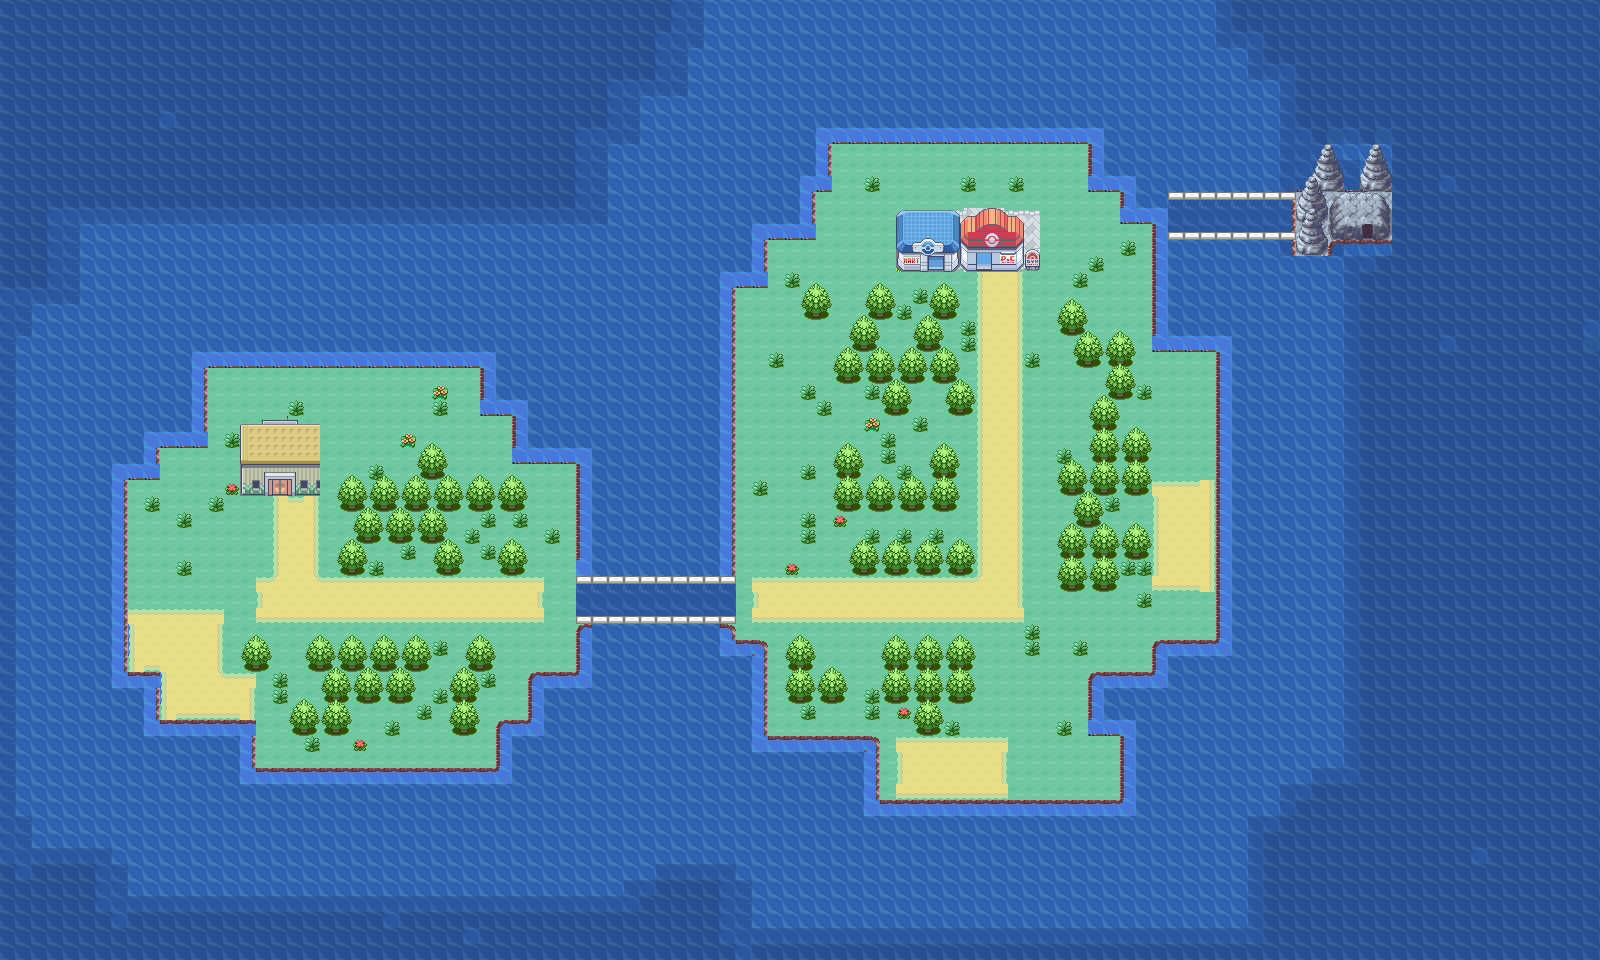
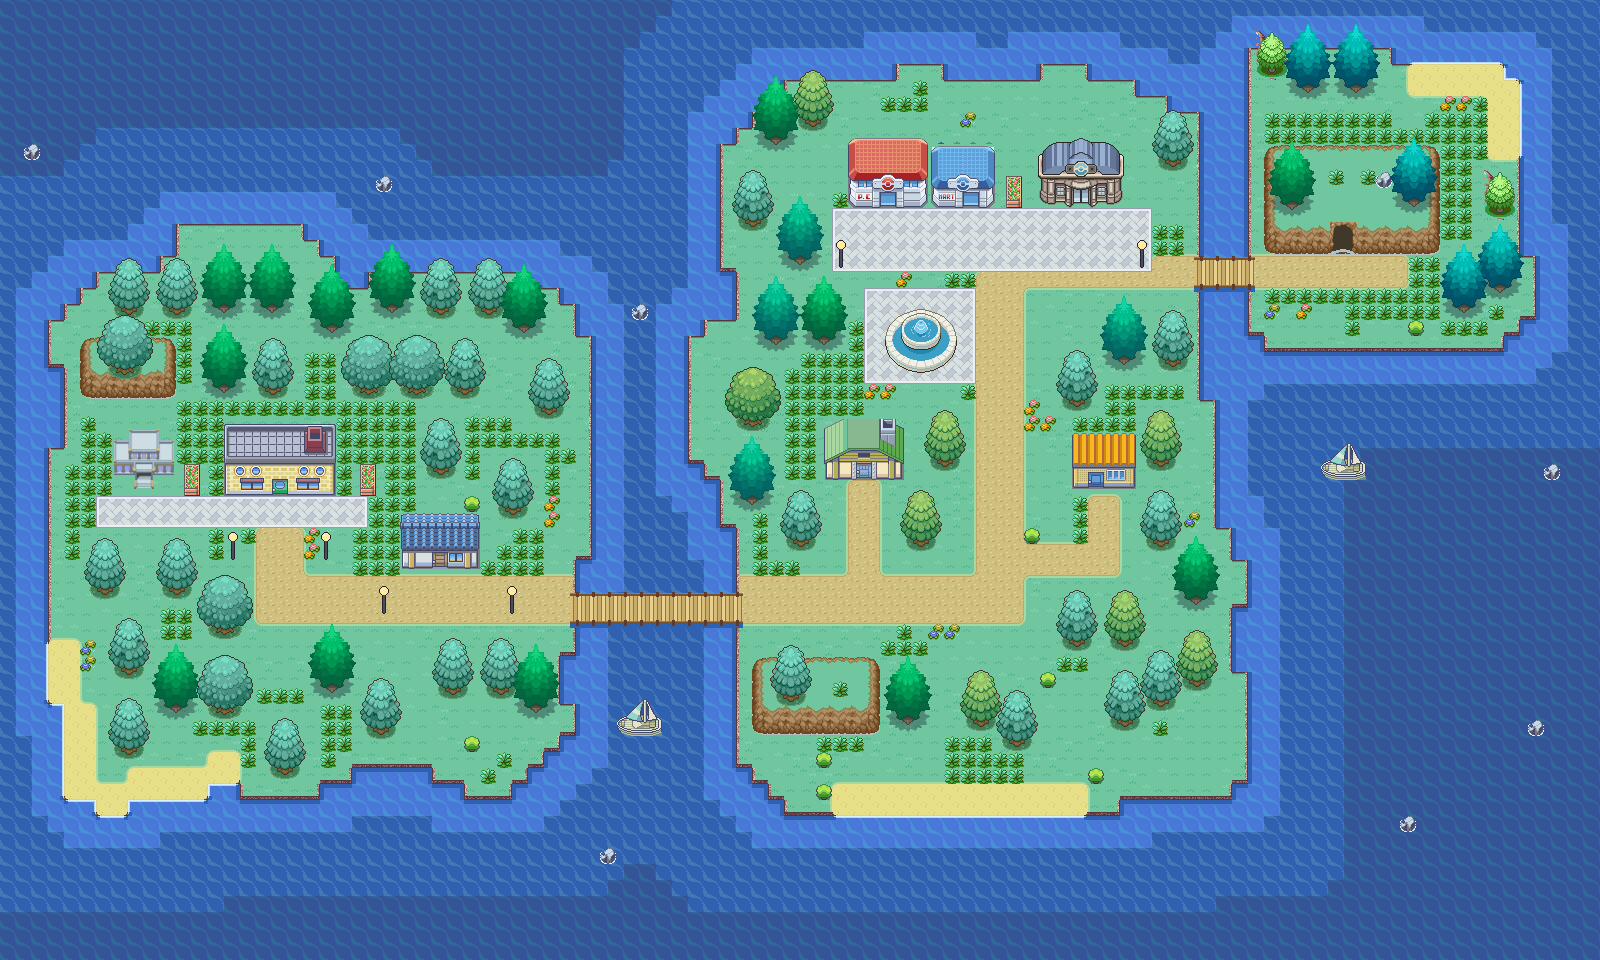
change(fusion): Redraw the Fusion region Helixia with the new map renderer
Helixia gets the modern island style of the Festival Archipelago: Bill's Fusion
lab with a research station, Helix City with Pokémon Center, Mart and a domed
gym, a fountain square, the boardwalk of Fusion path 2 and the Mysterious Cave
in a rock plateau on its own islet. Every building is connected by a path.
The clickable areas of the Fusion map follow the new layout.

Claude-Session: https://claude.ai/code/session_01Srdu71KdXcWs2nS9inXx9y

diff --git a/src/scripts/fusion/FusionData.ts b/src/scripts/fusion/FusionData.ts
@@ -82,7 +82,7 @@ class FusionData {
         },
         {
             id: 'f1', name: 'Fusionspfad 1', kind: 'route', unlock: {}, levels: [3, 8], hp: 30, energy: 1, background: 'forest',
-            map: { x: 16, y: 36, w: 18, h: 3 },
+            map: { x: 16, y: 36, w: 20, h: 3 },
             pokemon: ['25.133', '133.25', '132.25', '52.133', '54.79', '36.40'],
         },
         {
@@ -92,17 +92,17 @@ class FusionData {
         },
         {
             id: 'f3', name: 'Fusionspfad 3', kind: 'route', unlock: { area: 'f2', kills: 25 }, levels: [20, 30], hp: 1100, energy: 8, background: 'fire',
-            map: { x: 47, y: 36, w: 14, h: 3 },
+            map: { x: 48, y: 36, w: 13, h: 3 },
             pokemon: ['59.38', '38.59', '3.143', '143.3', '9.130', '130.9', '25.6', '6.25'],
         },
         {
             id: 'f4', name: 'Fusionspfad 4', kind: 'route', unlock: { area: 'f3', kills: 25 }, levels: [35, 45], hp: 4500, energy: 20, background: 'desert',
-            map: { x: 61, y: 17, w: 3, h: 22 },
+            map: { x: 61, y: 17, w: 3, h: 19 },
             pokemon: ['131.148', '148.131', '94.6', '142.6', '65.94', '143.149', '149.143', '6.149', '149.6'],
         },
         {
             id: 't2', name: 'Helixstadt', kind: 'town', unlock: { area: 'f4', kills: 25 }, background: 'battlefield', gym: 'gym1',
-            map: { x: 56, y: 13, w: 9, h: 4 },
+            map: { x: 55, y: 13, w: 13, h: 4 },
         },
         {
             id: 'gym1', name: 'Fusionsarena', kind: 'gym', unlock: { area: 'f4', kills: 25 }, background: 'battlefield',
@@ -115,7 +115,7 @@ class FusionData {
         },
         {
             id: 'f5', name: 'Mysteriöse Höhle', kind: 'cave', unlock: { badge: 'Fusionsorden' }, levels: [60, 70], hp: 25000, energy: 50, background: 'cave',
-            map: { x: 80, y: 10, w: 7, h: 6 },
+            map: { x: 82, y: 12, w: 4, h: 4 },
             pokemon: ['94.150', '150.94', '151.150', '150.151', '145.146', '144.145', '146.144'],
         },
     ];

diff --git a/tools/event/layouts/helixia.py b/tools/event/layouts/helixia.py
@@ -1,0 +1,98 @@
+"""Layout of the Fusion region Helixia (Fusion world) for festival_map.py (each section runs inside the renderer).
+
+Map areas of FusionData (in tiles): Fusion lab t1 (14,26,6,5), Fusion paths f1 (16,36,20,3), f2 (36,36,10,3),
+f3 (48,36,13,3), f4 (61,17,3,19), Helix City t2 (55,13,13,4), Mysterious Cave f5 (82,12,4,4)."""
+# flake8: noqa
+# @section islands
+ISLANDS = {
+    'lab': (4, 18, 36, 49),       # Bill's Fusion lab and Fusion path 1
+    'main': (46, 5, 76, 51),      # Fusion paths 3 and 4, Helix City
+    'cave': (77, 3, 95, 22),      # Mysterious Cave
+}
+SHAPES = {'cave': (2.6, 4)}
+NO_TALL_GRASS = ()
+# @section lobes
+LOBES = {
+    'lab': [(10, 15, 20, 20), (4, 40, 14, 50)],
+    'main': [(66, 40, 78, 49), (44, 20, 50, 30)],
+    'cave': [],
+}
+# @section paths
+PATHS = [
+    (16, 31, 19, 36), (16, 36, 36, 39),       # lab door and Fusion path 1
+    (46, 36, 64, 39), (61, 17, 64, 39),       # Fusion paths 3 and 4
+    (64, 16, 72, 18), (77, 16, 88, 18),       # Helix City to the cave islet
+    (53, 30, 55, 36), (68, 31, 70, 36), (64, 34, 70, 36),       # houses south of Helix City
+]
+for p in PATHS:
+    area(*p, PATH)
+STONES = [
+    (52, 13, 72, 17),     # Helix City square
+    (6, 31, 23, 33),      # forecourt of the lab and the research station
+    (54, 18, 61, 24),     # fountain square next to Fusion path 4
+]
+for s in STONES:
+    area(*s, STONE, (GRASS, PATH))
+FESTIVAL = (0, 0, 0, 0)
+# @section bridges
+BRIDGES = [
+    ('h', 37, 34, 48),    # Fusion path 2 (boardwalk over the sea)
+    ('h', 16, 70, 79),    # Helix City to the Mysterious Cave
+]
+# @section beaches
+BEACHES = [(3, 40, 15, 51), (52, 46, 68, 52), (88, 3, 96, 10)]
+# @section objects
+# --- Fusion lab island -------------------------------------------------------------------------
+put(SP['fusion_lab'], 17.5, 31)
+put(SP['station'], 9, 30.6)
+put(SP['planter_tall'], 12, 31)
+put(SP['planter_tall'], 23, 31)
+for cx, by in ((14.6, 35), (20.4, 35), (24, 38.4), (32, 38.4)):
+    put(fp.lamp_post(), cx, by)
+put(SP['house_blue'], 27.5, 35.6)
+
+# --- Helix City ----------------------------------------------------------------------------------
+put(SP['pc'], 55.5, 13)
+put(SP['mart'], 60.2, 13)
+put(SP['helix_gym'], 67.6, 13)
+put(SP['planter_tall'], 63.4, 13)
+for cx, by in ((52.6, 16.8), (71.4, 16.8)):
+    put(fp.lamp_post(), cx, by)
+put(SP['fountain0'], 57.5, 23.4)
+put(SP['house_green'], 54, 30)
+put(SP['house_orange'], 69, 30.6)
+
+# --- raised plateaus (Magiscarf's hill piece as a 9-slice); the Mysterious Cave is in the islet's face
+CLIFFS = [
+    ((79, 9, 90, 16), 84.0),      # Mysterious Cave
+    ((47, 41, 55, 46), None),     # hill south of Fusion path 3
+    ((5, 21, 11, 25), None),      # hill above the lab
+]
+for (x0, y0, x1, y1), cave in CLIFFS:
+    pl = ma.plateau((x1 - x0) * T, (y1 - y0) * T)
+    if cave is not None:
+        ce = ma.cave_entrance()
+        pl.alpha_composite(ce, (int((cave - x0) * T - ce.width / 2), pl.height - ce.height - 1))
+    put(pl, (x0 + x1) / 2, y1)
+for name, cx, by in (('tree_pine', 80.8, 13.6), ('tree_pine3', 88.4, 13.4), ('fern', 83.5, 11.6), ('fern', 85.5, 11.6),
+                     ('rock', 86.5, 11.8), ('tree_teal0', 49.4, 44.2), ('fern', 52.5, 43.6), ('round_teal0', 7.8, 23.8)):
+    put(SP[name], cx, by, reserve=False, layer=6 * T)
+
+# --- sea decoration ------------------------------------------------------------------------------
+for cx, by in ((40, 20), (42.5, 22), (97, 30), (96, 46), (24, 12), (88, 52), (2, 10), (38, 54)):
+    if dist[int(by) - 1, int(cx)] >= 2:
+        put(SP['rock'], cx, by, reserve=False)
+put(SP['sailboat'], 40, 46, reserve=False)
+put(SP['sailboat'], 84, 30, reserve=False)
+# @section flora
+FLORA = {
+    'lab': ['tree_teal0', 'tree_teal1', 'round_teal0', 'tree_pine'],
+    'main': ['tree_green0', 'tree_pine', 'tree_pine2', 'round_green0', 'tree_teal1'],
+    'cave': ['tree_pine', 'tree_pine3', 'tree_conifer_big'],
+}
+# @section groves
+GROVES = [
+    ('lab', (24, 19, 35, 28), ['tree_pine', 'tree_teal0', 'tree_pine2']),
+    ('main', (65, 19, 75, 28), ['tree_pine', 'tree_pine3']),
+    ('main', (47, 6, 52, 12), ['tree_teal0', 'round_teal0']),
+]

diff --git a/tools/event/sheet_assets.py b/tools/event/sheet_assets.py
@@ -157,6 +157,14 @@ if __name__ == '__main__':
 
 
 # Named landmarks for the Festival Archipelago (sheet, pixel box or object index, optional sub-split)
+def opaque(o):
+    """Drop semi-transparent drop shadows that some sheets bake in."""
+    a = np.array(o)
+    a[..., 3] = np.where(a[..., 3] == 255, 255, 0)
+    o = Image.fromarray(a, 'RGBA')
+    return o.crop(o.getbbox())
+
+
 def landmark(name):
     if name == 'bell_tower':
         # the sheet's drop shadow is a semi-transparent box; keep only opaque pixels
@@ -165,6 +173,12 @@ def landmark(name):
         a[..., 3] = np.where(a[..., 3] == 255, 255, 0)
         o = Image.fromarray(a, 'RGBA')
         return o.crop(o.getbbox())
+    if name == 'fusion_lab':
+        return obj('frlg2', 50)
+    if name == 'helix_gym':
+        return region('saurav_b', (117, 10, 203, 80))
+    if name == 'station':
+        return opaque(obj('cherry', 169))
     if name == 'contest_hall':
         return region('saurav_b', (12, 11, 99, 80))
     if name == 'stadium':

diff --git a/tools/event/festival_map.py b/tools/event/festival_map.py
@@ -455,7 +455,7 @@ for name, ids in ma.CATALOG.items():
     for k in range(len(ids)):
         SP[f'{name}{k}'] = ma.pick(name, k)
 # landmarks and trees from the Pinterest tile sheets (see resources/CREDITS.md)
-for name in ('contest_hall', 'stadium', 'hut', 'lighthouse', 'bell_tower', 'restaurant', 'kalos_house0', 'kalos_house4', 'tree_gold', 'tree_gold2', 'tree_pine', 'tree_pine2', 'tree_pine3'):
+for name in ('fusion_lab', 'helix_gym', 'station', 'contest_hall', 'stadium', 'hut', 'lighthouse', 'bell_tower', 'restaurant', 'kalos_house0', 'kalos_house4', 'tree_gold', 'tree_gold2', 'tree_pine', 'tree_pine2', 'tree_pine3'):
     SP[name] = sa.landmark(name)
 kanto = Image.open('src/assets/images/kanto-kanto.png').convert('RGBA')
 
